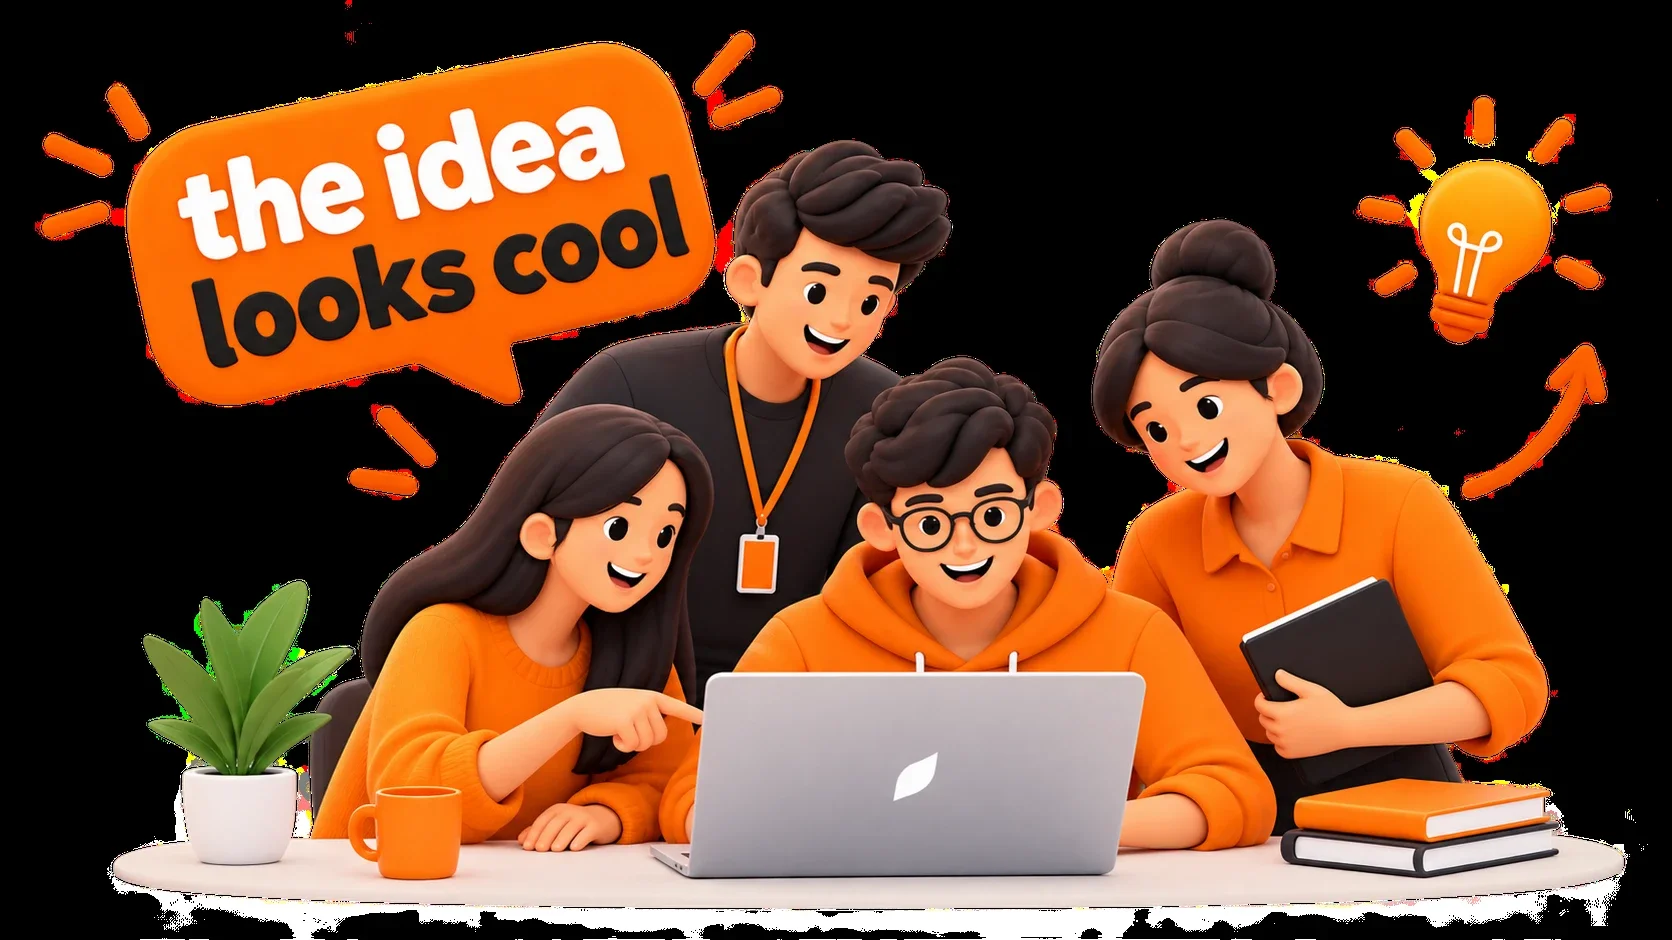
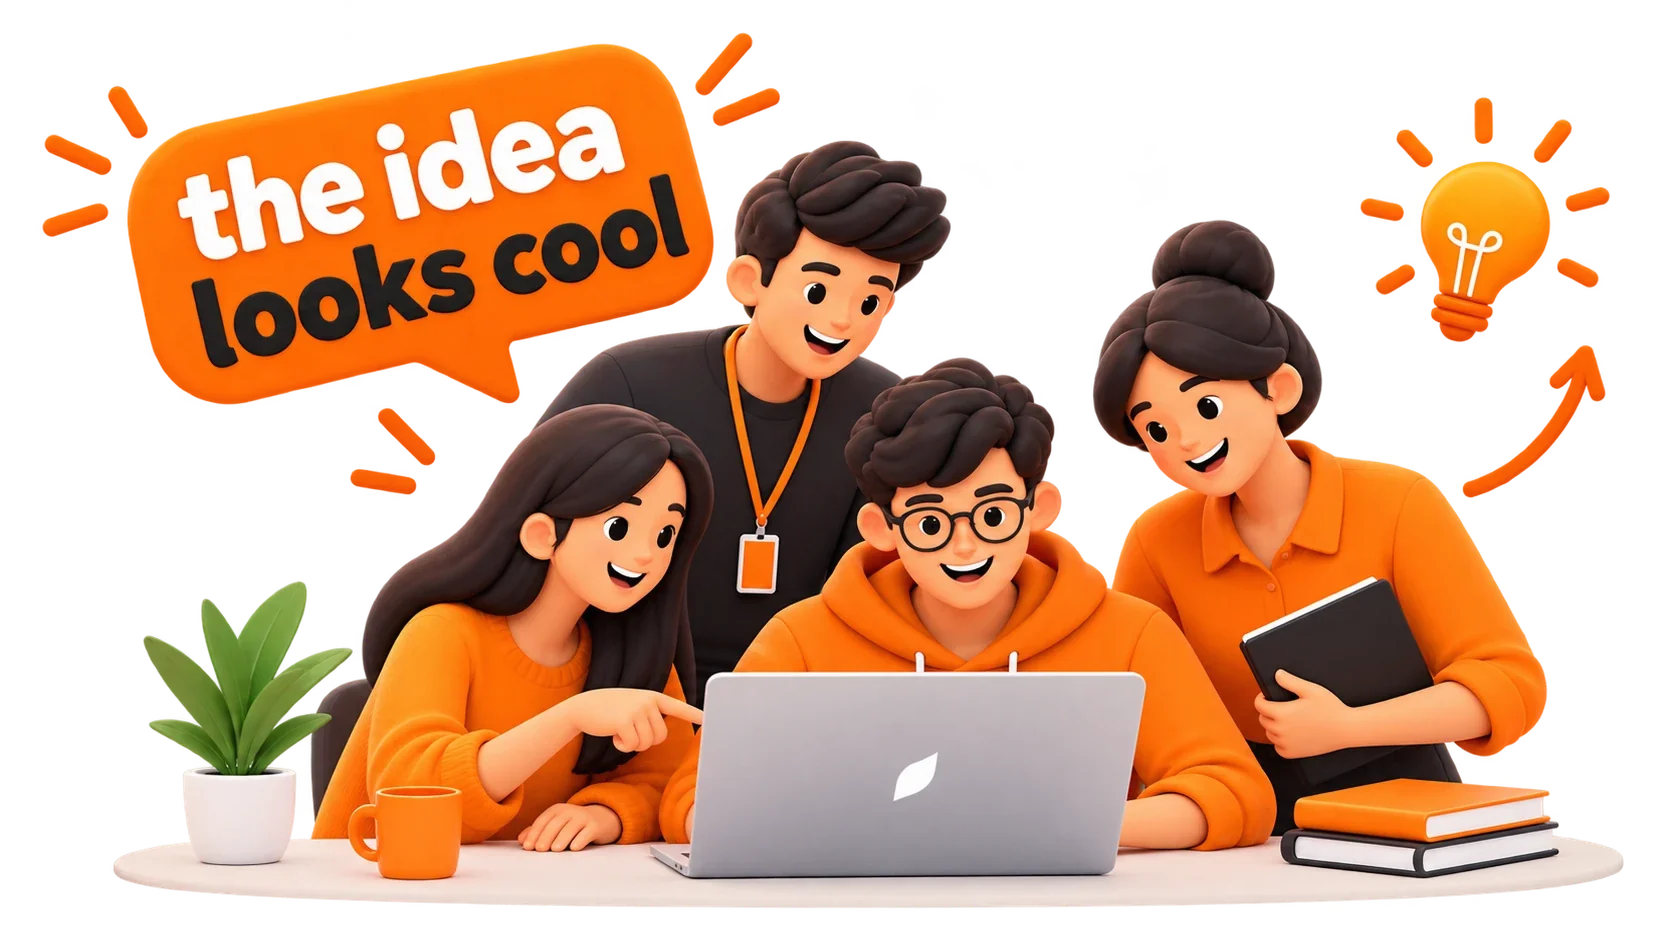
Use the true-transparent version of the Career page hero illustration
The previous file had no alpha channel and relied on its baked-in black
background matching the page. This one has real transparency, so the
ambient glow behind it is now visible through the image instead of hidden.

diff --git a/src/components/careerPage/ourTeam.jsx b/src/components/careerPage/ourTeam.jsx
@@ -3,9 +3,7 @@ import teamIdeaImg from "/assets/images/career/team-idea.webp";
 
 // Hero order per the latest reference: illustration, then the "Welcome to
 // Hertzworkz..." heading/copy, then the script "Join Our Team at HertzWorkz" wordmark
-// at the bottom. `team-idea.webp` ships with a solid black background baked in (its
-// source had no alpha channel) rather than true transparency, which blends with the
-// page's near-black bg-ink.
+// at the bottom. `team-idea.webp` has a true transparent background.
 // Culture bars below still follow Figma node 5233:17387 ("Career Page - Final 2").
 //
 // Per the Figma prototype's animation spec: the opening section pushes upward into
